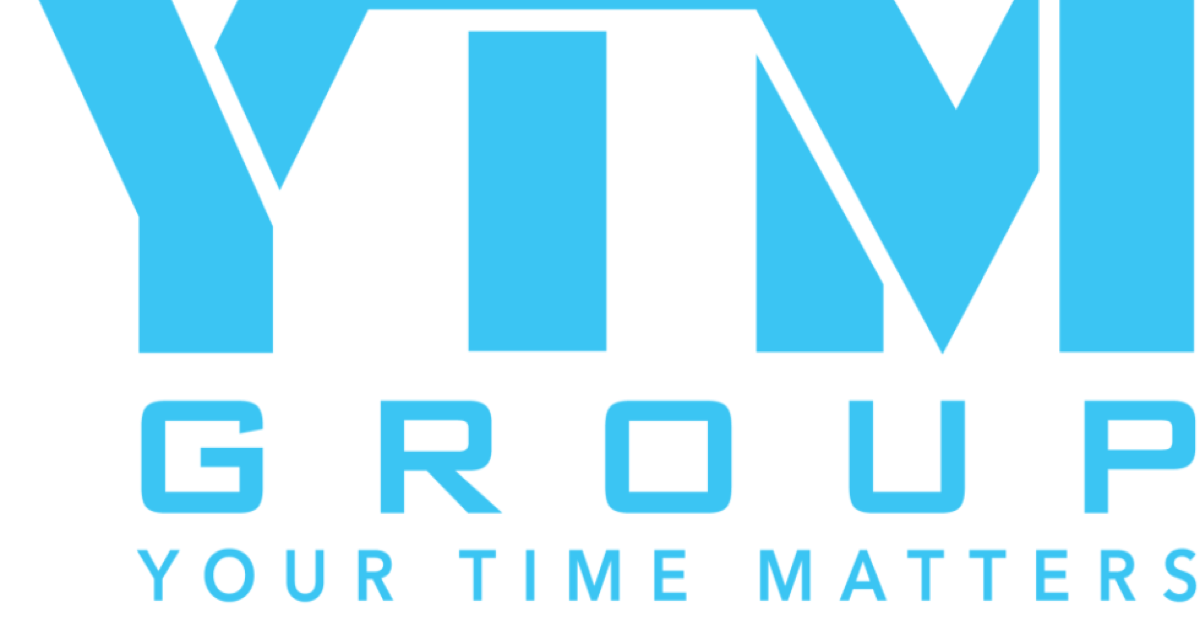
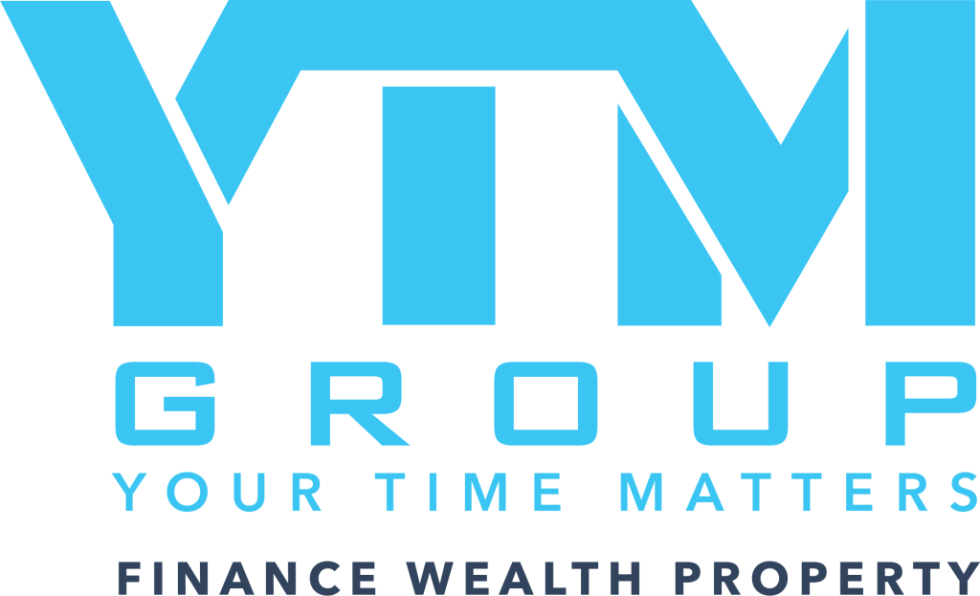
fixing message image issue

diff --git a/src/components/seo/SEOHead.tsx b/src/components/seo/SEOHead.tsx
@@ -61,8 +61,8 @@ const SEOHead: React.FC<SEOHeadProps> = ({
       <meta property="og:image" content={ogImage} />
       <meta property="og:image:secure_url" content={ogImage} />
       <meta property="og:image:type" content="image/png" />
-      <meta property="og:image:width" content="1200" />
-      <meta property="og:image:height" content="630" />
+      <meta property="og:image:width" content="980" />
+      <meta property="og:image:height" content="596" />
       <meta property="og:image:alt" content="YTM Group - Professional Financial Services Australia" />
       <meta property="og:site_name" content="YTM Group" />
       <meta property="og:locale" content="en_AU" />

diff --git a/index.html b/index.html
@@ -19,8 +19,8 @@
     <!-- Open Graph default meta tags (will be overridden by React Helmet) -->
     <meta property="og:type" content="website" />
     <meta property="og:image" content="https://ytmgroup.com.au/images/ytm-og-image-hq.png" />
-    <meta property="og:image:width" content="1200" />
-    <meta property="og:image:height" content="630" />
+    <meta property="og:image:width" content="980" />
+    <meta property="og:image:height" content="596" />
     <meta property="og:image:alt" content="YTM Group - Professional Financial Services Australia" />
     
     <!-- Preconnect to external resources -->
